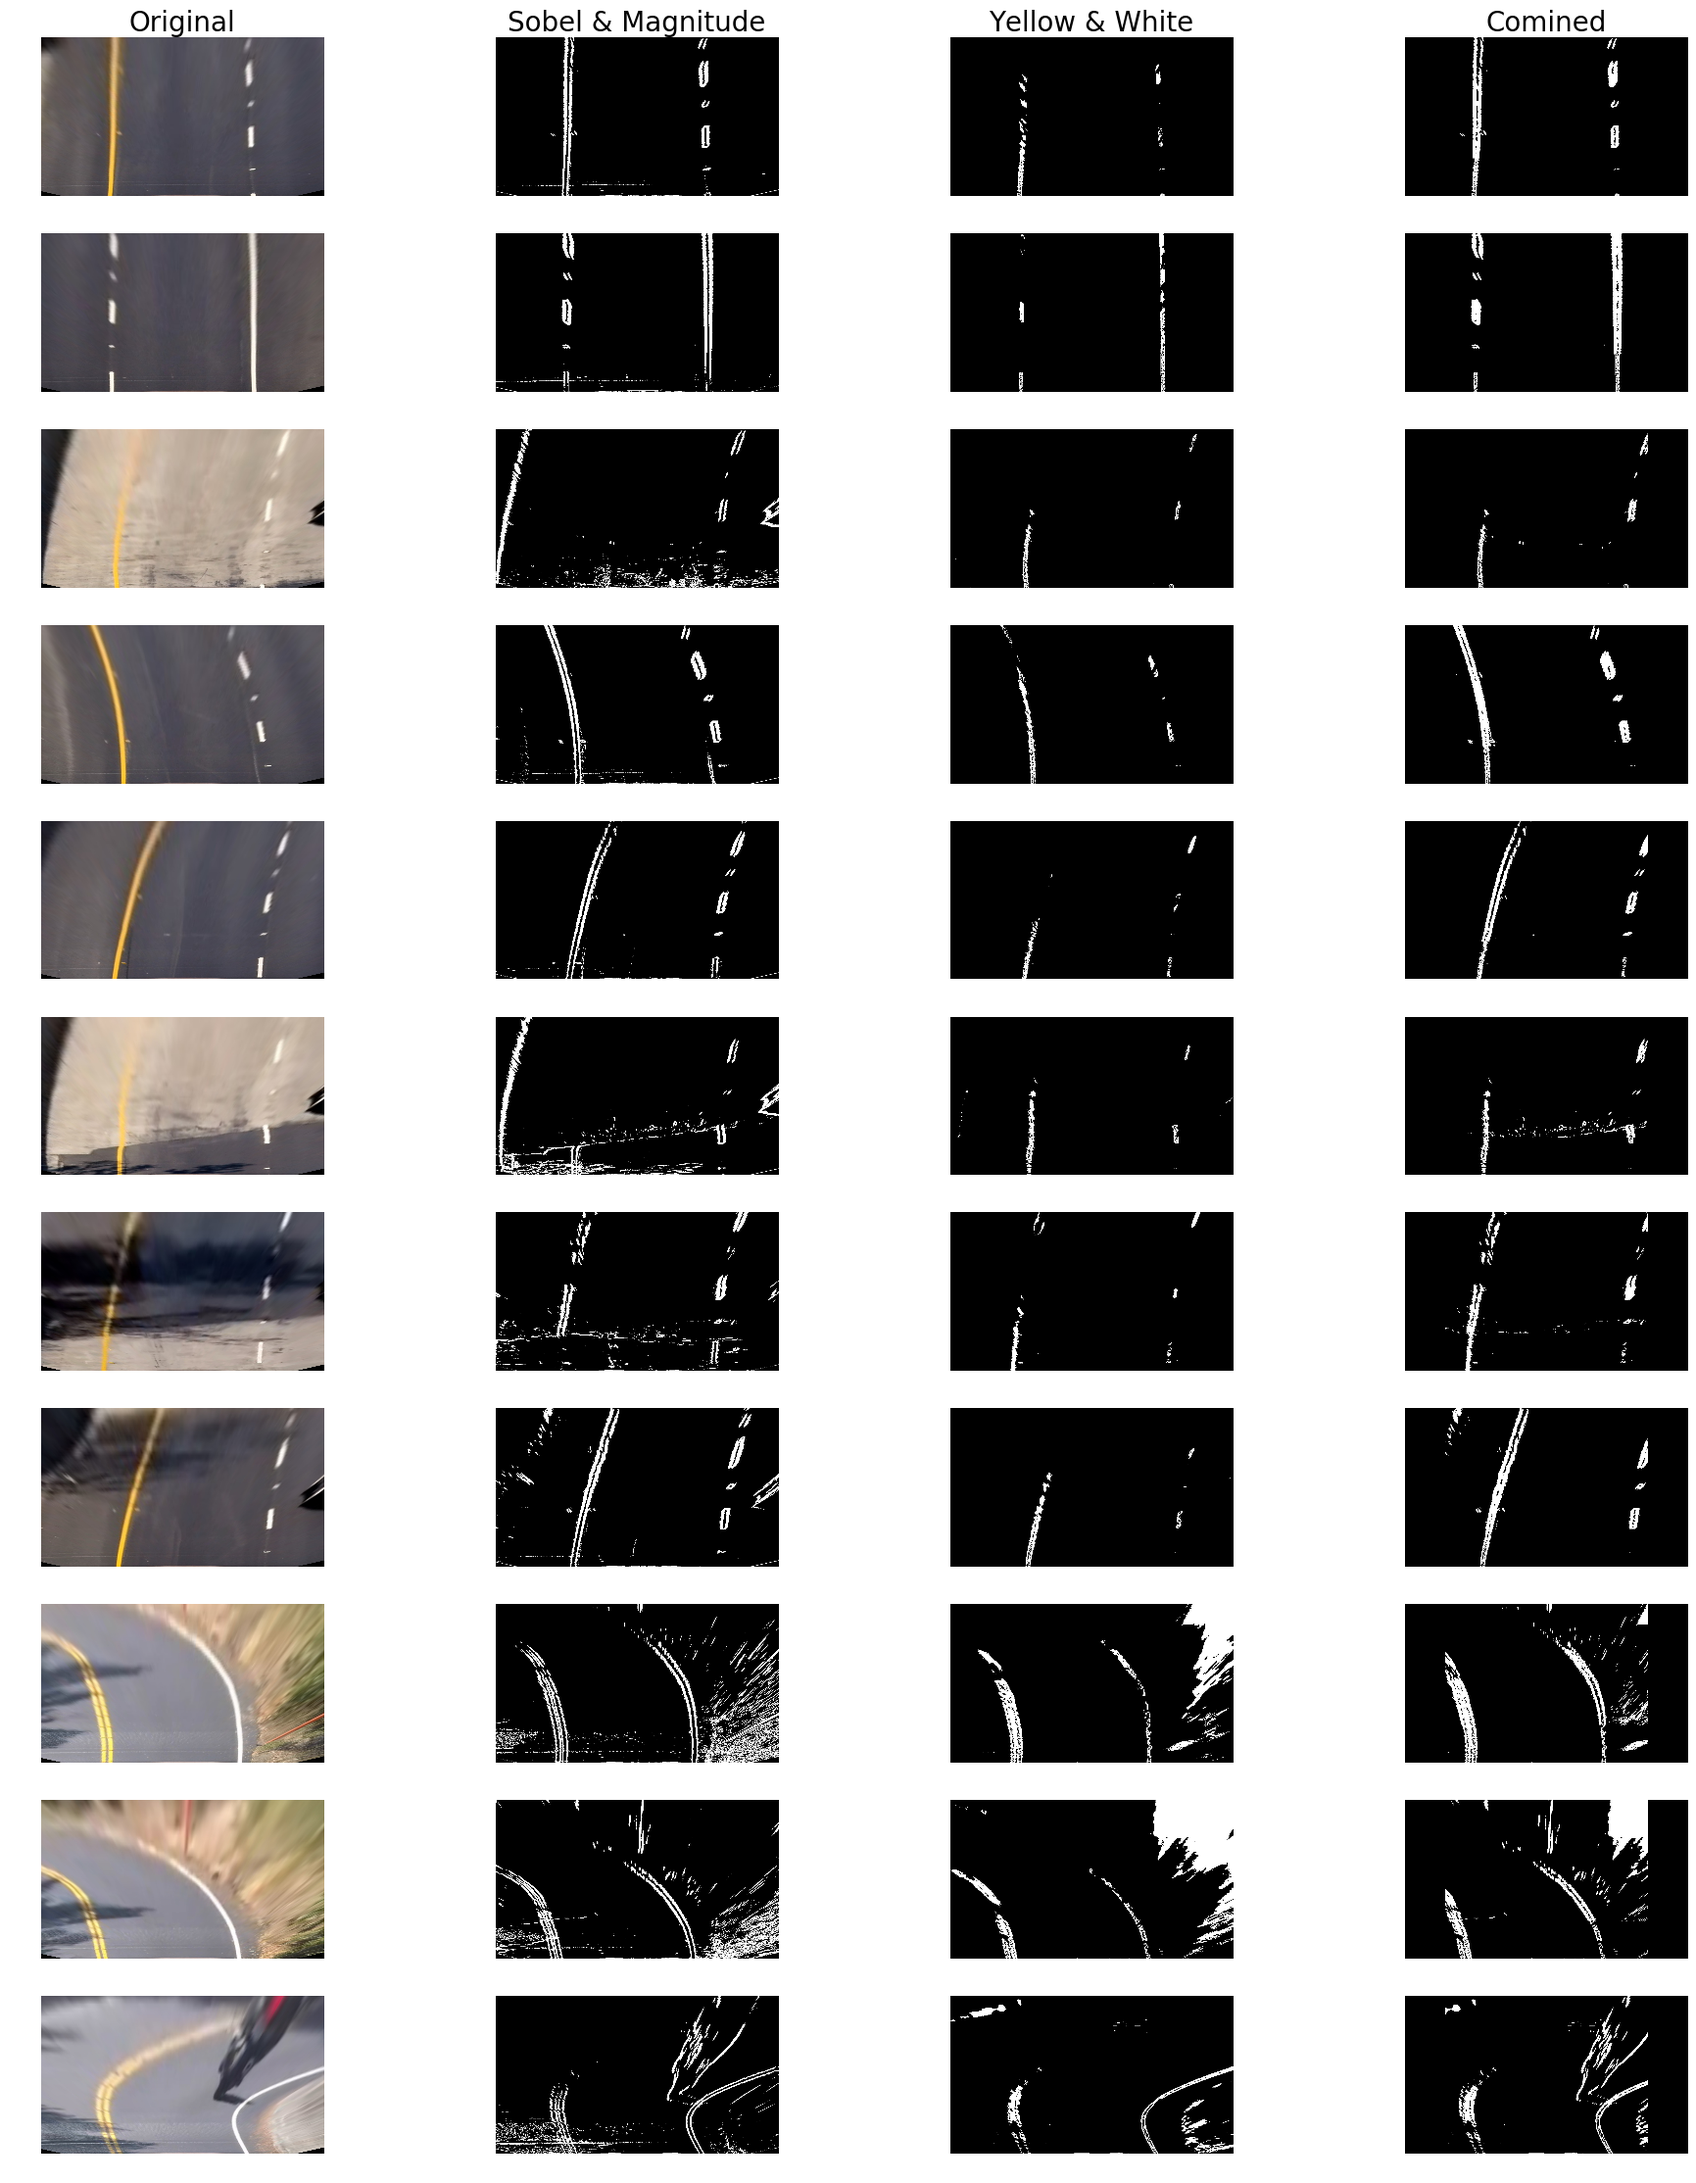
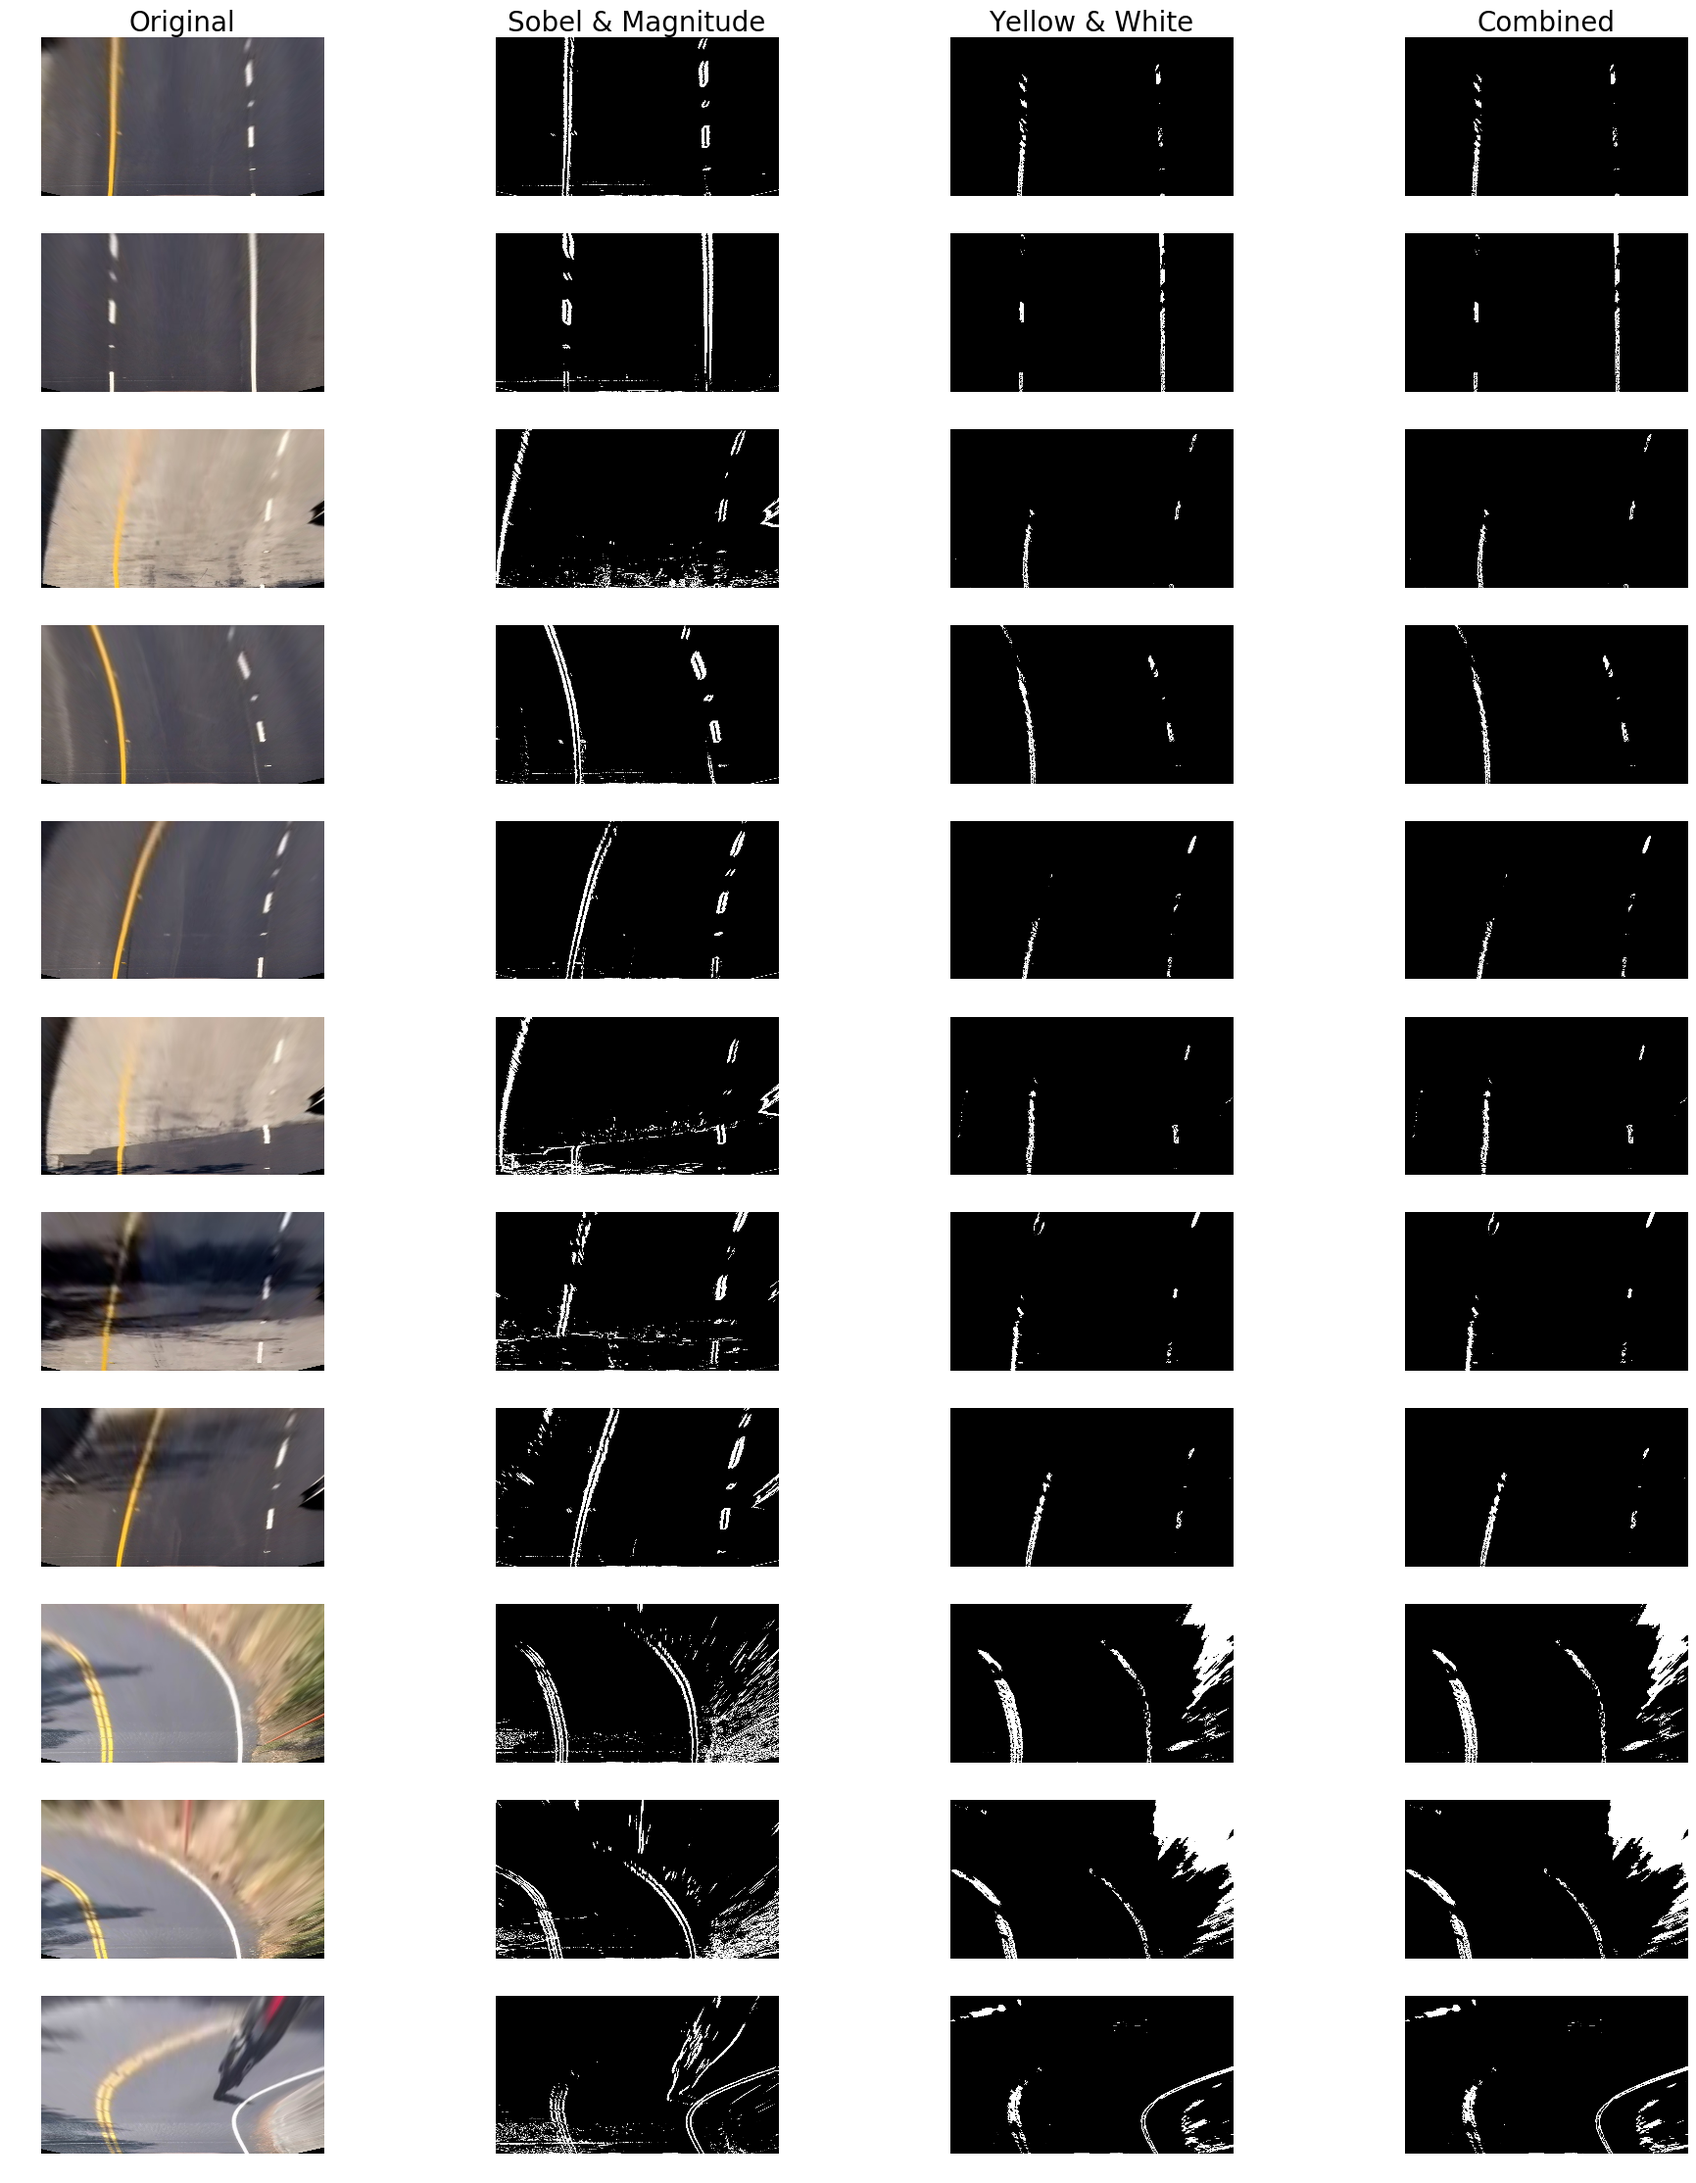
improve pixel selection

diff --git a/writeup_template.md b/writeup_template.md
@@ -58,7 +58,7 @@ So what we need is a transformation where the green marked points become the blu
 
 The method `getImagePoints` from class `Camera` (`src/camera.py`) encapsulates the detection of inner corners in one chessboard image. It takes the file name of the image and then:
 
-* resizes it to a size of 1280x720. This is because there are some images which have a size of 1281x721 and we need all of the to be the same size.
+* resizes it to a size of 1280x720. This is because there are some images which have a size of 1281x721 and we need all of them to be the same size.
 * converts it to a grayscale image. This is because `cv2.findChessboardCorners` needs a n 8-bit input image.
 * runs `cv2.findChessboardCorners` and returns the coordinates (*imagepoints*) of the corners it found.
 
@@ -148,7 +148,7 @@ def toCarCameraView(self, img):
 
 ```
 
-Here is the result for all test images (also available in `./test_images_perspective`):
+Below is the result for all test images (also available in `./test_images_perspective`). Every image has been undistorted and then perspective has been changed from car camera view to birds-eye view:
 
 <img src="./writeup_images/test-images-perspective-transformation.png" alt="Drawing" style="width: 800px;"/>
 
@@ -222,18 +222,18 @@ def detectLanePixels(self, image_BGR):
     combined = np.zeros_like(sobel_x)
 
     sobel[((magnitude == 1) | (sobel_x == 1))] = 1
-
-    sobel[550:] = 0
-
+    sobel[(sobel_y == 1)] = 0
     combined[((colors == 1) | (sobel == 1))] = 1
-
-    combined[:, 1100:] = 0
-    combined[:, :180] = 0
+    combined = cv2.blur(combined,(5,5))
 
     return combined
+
 ```
 
-First we take all pixels identified by the magnitude or the sobel_x filter. In the above picture we can see there is some noise especially in the lower part of the binary images. To get rid of this we remove all pixels at the bottom (where the y value of a pixel is bigger than 550) of the binary image. Then we combine this with all pixels identified by color selection. Since the chosen thresholds for color selection are a little bit problematic at the left and right side of the image (especially for the test images I derived from the harder challenge video), I cut a strip of width 180 pixels away from both sides.
+First we can see the thresholds from the above table in the code. After we have calculated the individual masks (`colors`, `sobel_x`, `sobel_y` and `magnitude`) we need to combine them. The `sobel_x` and `magnitude` filter do a pretty good job at detecting the line, but they also detect some noise at the bottom of the picture.
+This noise seems to be included when applying the `sobel_y` filter, which detects also a fraction of the lane lines.
+
+Therefore I take the following approach I take the pixels identified by `sobel_x` and `magnitude` and then remove the pixels identified by `sobel_y`. With this I can reduce the noise at the bottom of the image without loosing to much information about the lane lines. Finally I combine this with all pixels identified by `colors` and then apply a blur to smoothen it.
 
 <img src="./writeup_images/test-images-combined-thresholding.png" alt="Drawing" style="width: 800px;"/>
 
